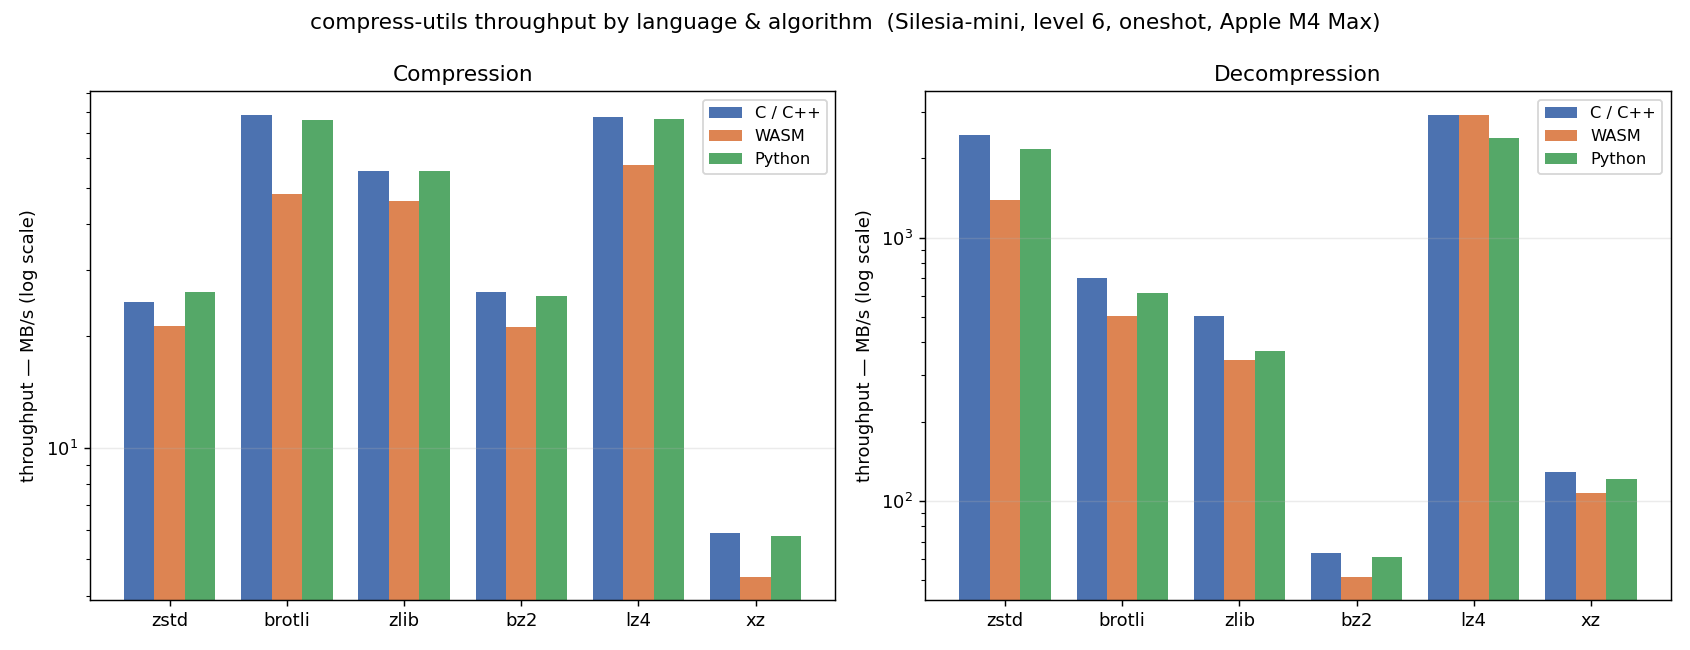
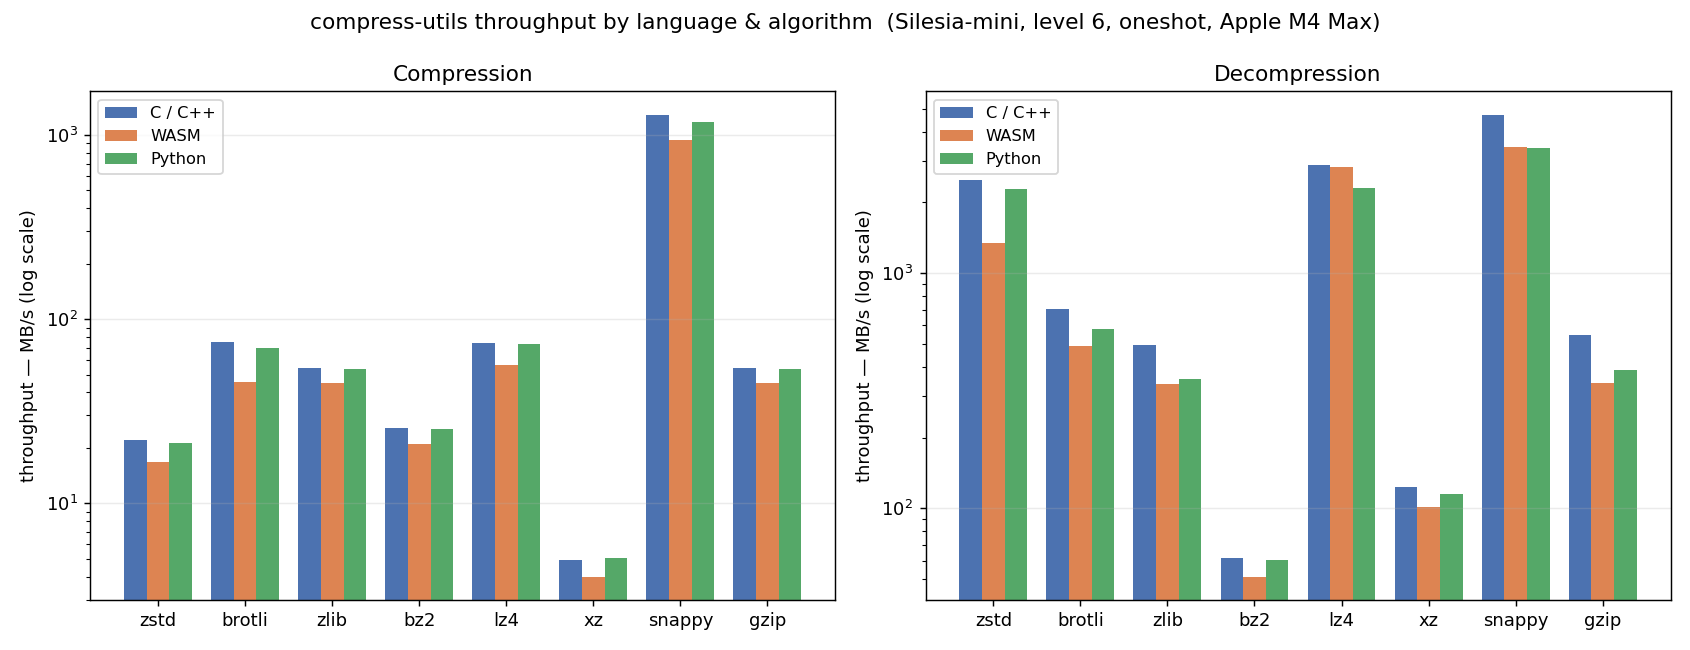
Benchmark plots

diff --git a/benchmarks/README.md b/benchmarks/README.md
@@ -21,21 +21,22 @@ are not done yet — see TODO.md.
 
 ![throughput by language and algorithm](assets/lang-comparison.png)
 
-The same six codecs across the three language bindings, measured back-to-back in
+All eight codecs across the three language bindings, measured back-to-back in
 one interleaved run (Silesia-mini, level 6, one-shot). Compression **ratio is
-identical** across languages — only throughput differs:
+identical** across languages (within 0.5%) — only throughput differs:
 
 - **Python ≈ native C.** The binding is the C core via pybind11, so compress is
   ~1.0× and decompress ~1.0–1.4× (overhead only shows on the fastest decoders).
-- **WASM ~1.2–1.3× slower to compress, ~1.1–1.8× to decompress.** zstd decode is
-  the worst case (native SIMD tricks); lz4 decode is nearly free (memory-bound).
+- **WASM ~1.2–1.7× slower to compress, ~1.0–1.85× to decompress.** zstd/brotli
+  decode are the worst cases (native SIMD tricks); lz4 decode is nearly free
+  (memory-bound).
 
 Regenerate with `python3 benchmarks/plot_langs.py` after a 3-way run.
 
 ## Quick start
 
 ```sh
-./build.sh --release                 # produces dist/c/ + algorithms/dist/ (drivers link them)
+./build.sh --languages=c,cpp,python,wasm --cores=8   # Release by default; produces dist/ + packages the drivers link
 python3 benchmarks/runner.py         # runs the matrix, writes results/<…>.json
 python3 benchmarks/report.py         # prints a table + writes results/plots/*.png
 ```

diff --git a/README.md b/README.md
@@ -57,6 +57,12 @@ For now each binding's README has its own installation + quickstart. A cross-cut
 
 All algorithms expose the same API surface and the same level scale (`1` fastest → `10` smallest). The library maps each user level to the algorithm's native range so you don't need to remember that ZSTD goes 1–22 and zlib goes 1–9.
 
+## Benchmarks
+
+![throughput by language and algorithm](benchmarks/assets/lang-comparison.png)
+
+Full methodology, per-corpus Pareto plots, and how to reproduce are in [benchmarks/README.md](benchmarks/README.md).
+
 ## Building
 
 ### Prerequisites